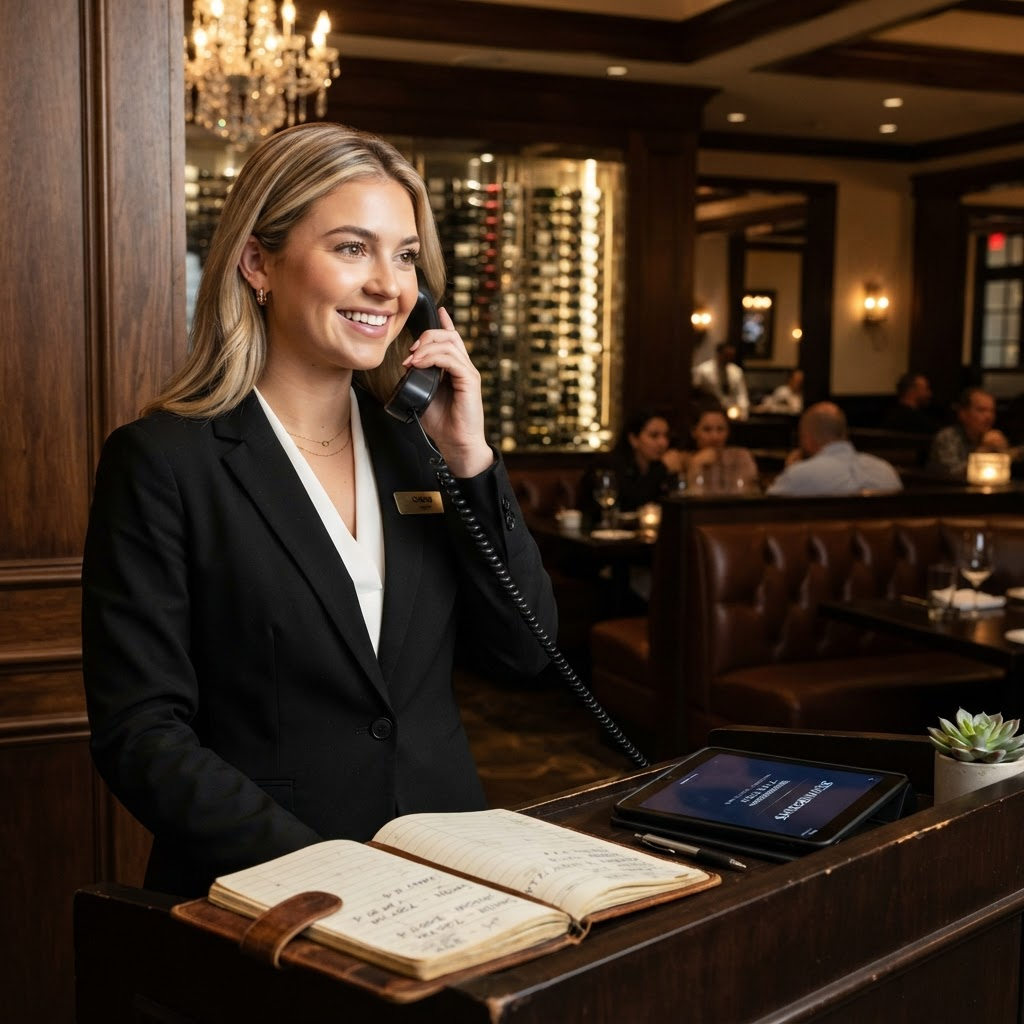
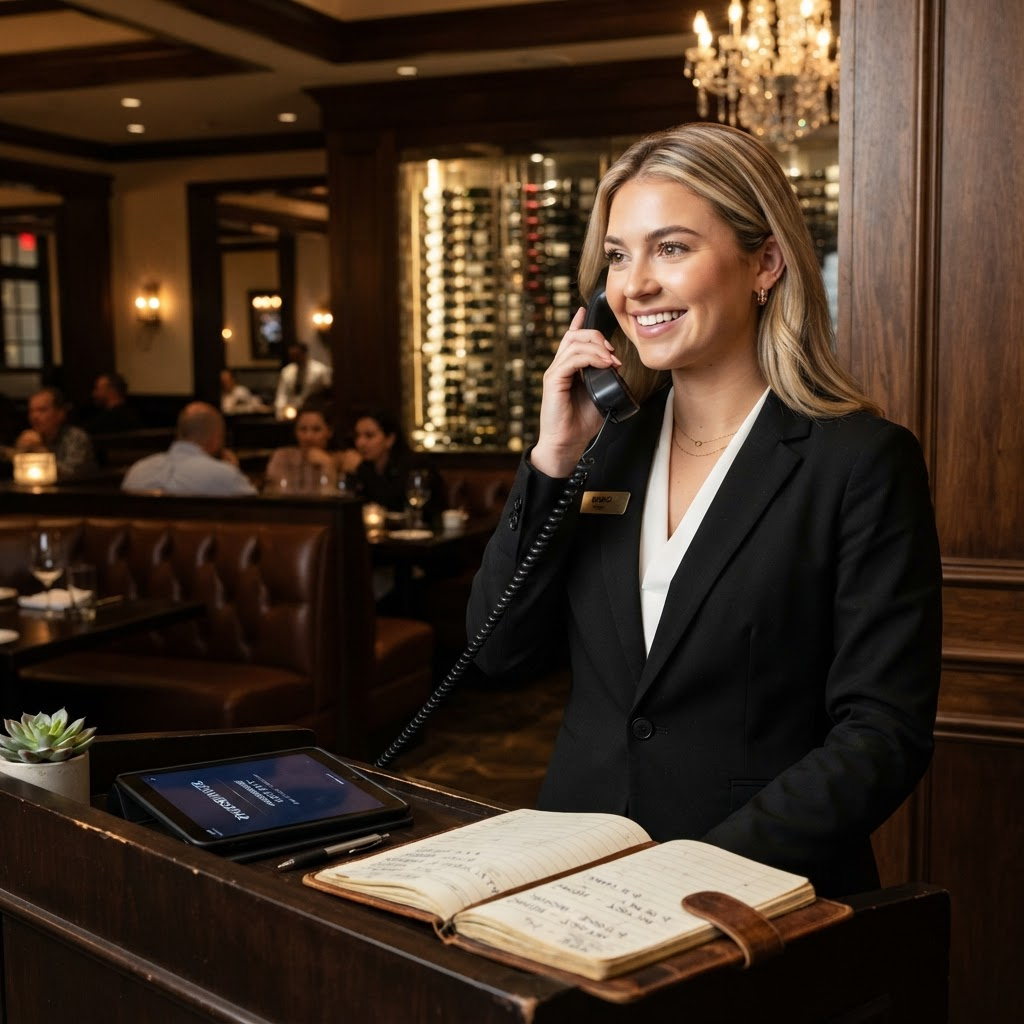
Restore Thai restaurant hero slide and mirror category images
Add the Asian restaurant host back as the first carousel slide and
horizontally flip the four category images so the host sits on the
right looking left, matching the Thai slide composition.

diff --git a/components/hero.tsx b/components/hero.tsx
@@ -45,6 +45,13 @@ const BENEFITS: Benefit[] = [
 // Ordered carousel slides. Index 0 (Fine Dining) is shown on page load.
 const SLIDES: Slide[] = [
   {
+    id: "thai-restaurant",
+    label: "Full-Service Restaurant",
+    src: "/hero-thai-restaurant.png",
+    alt: "An Asian female restaurant host in a navy blazer with gold trim smiling while taking a phone call at a wooden host podium in a warm, upscale Thai restaurant with diners and a lit water feature in the background",
+    objectPosition: "object-[60%_28%]",
+  },
+  {
     id: "fine-dining",
     label: "Fine Dining",
     src: "/hero-fine-dining.png",
